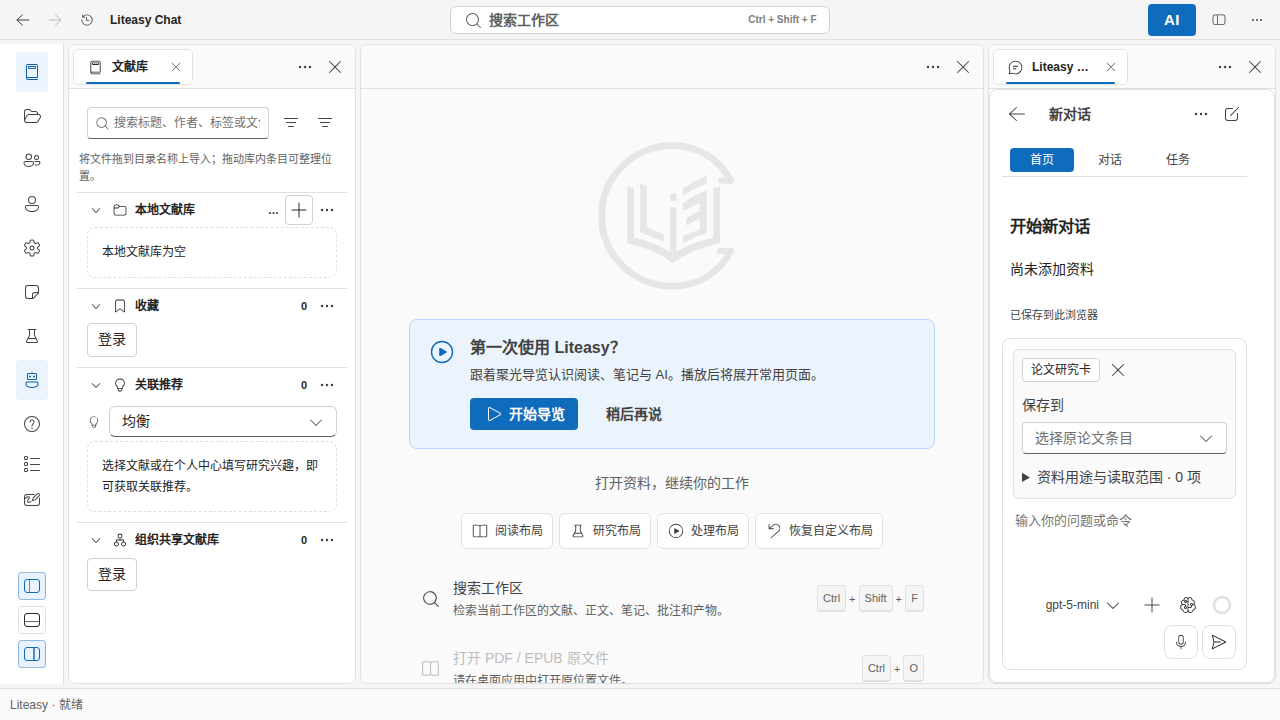
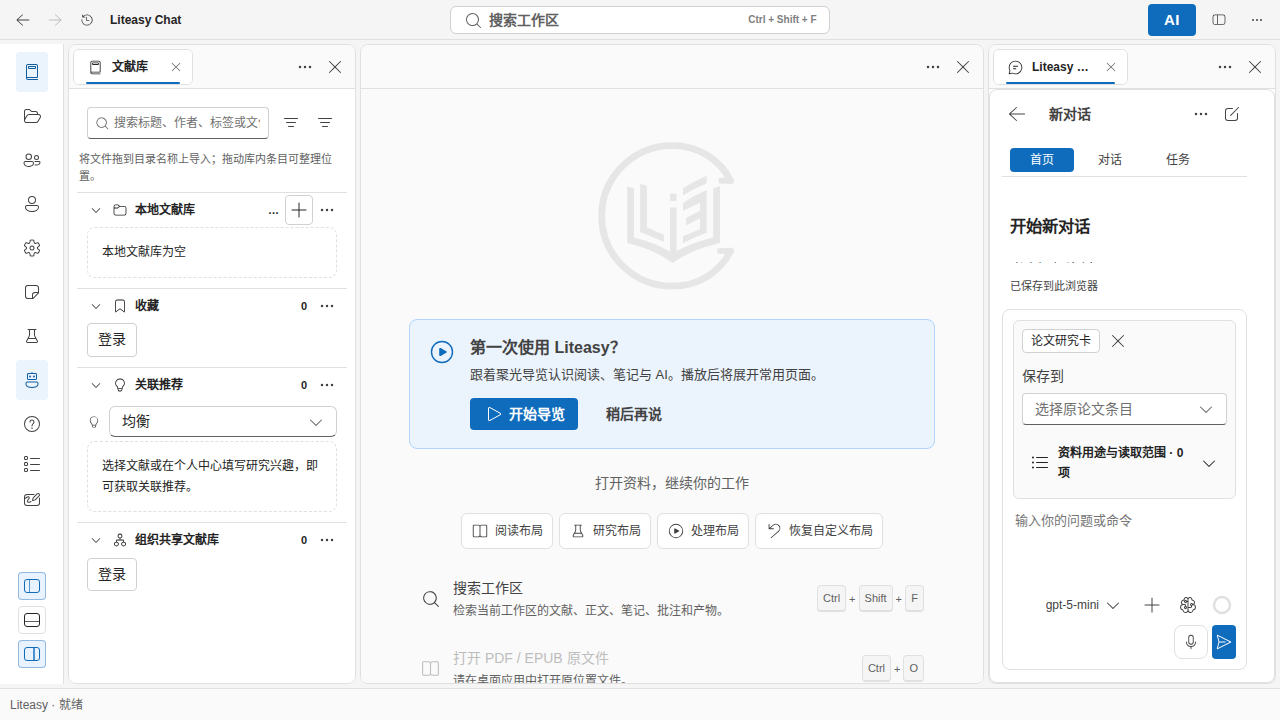
fix: align research skill controls with shared UI contracts

diff --git a/products/liteasy/apps/desktop/src/app/features/research-skills/ResearchDocumentDetails.tsx b/products/liteasy/apps/desktop/src/app/features/research-skills/ResearchDocumentDetails.tsx
@@ -1,3 +1,4 @@
+import { DisclosureSection } from "../../shared/ui/productPrimitives";
 import { useContext, useState } from "react";
 import { Button } from "@fluentui/react-components";
 import { ResearchSkillsContext } from "./researchSkillsPort";
@@ -13,11 +14,11 @@ export function ResearchDocumentDetails({ document }: { document: ResearchDocume
   return <div aria-label="科研文档来源与版本">
     <p>保存到：{document.invocation.destination.title} · {document.invocation.skill.id} {document.invocation.skill.version}</p>
     <p>结构与引用定位已检查，科研结论仍需核对。</p>
-    <details><summary>本次实际读取的来源</summary><ul>{document.sources.map(source => <li key={source.id}>
+    <DisclosureSection title="本次实际读取的来源"><ul>{document.sources.map(source => <li key={source.id}>
       {resources && "objectId" in source.ref ? <ResourceLink locator={liteasyPath(resources.service.scope, { kind: "object", ref: source.ref })}>{source.id} · {source.title}</ResourceLink> : `${source.id} · ${source.title}`}
       <span> · {source.trustLabel === "source" ? "来源材料" : source.trustLabel === "derived" ? "派生资料" : "说明信息"}</span>
-      <details><summary>查看本次读取文本</summary><pre className="research-source-text">{source.text}</pre></details>
-    </li>)}</ul></details>
+      <DisclosureSection title="查看本次读取文本"><pre className="research-source-text">{source.text}</pre></DisclosureSection>
+    </li>)}</ul></DisclosureSection>
     {skills ? <Button disabled={busy} onClick={() => { setBusy(true); void skills.createEditableCopy(document).then(() => setMessage("已创建独立笔记，原科研文档版本保留")).catch(error => setMessage(String(error))).finally(() => setBusy(false)); }}>创建可编辑副本</Button> : null}
     {message ? <p role="status">{message}</p> : null}
   </div>;

diff --git a/products/liteasy/apps/desktop/src/app/features/research-skills/ResearchSkillSelection.tsx b/products/liteasy/apps/desktop/src/app/features/research-skills/ResearchSkillSelection.tsx
@@ -1,3 +1,4 @@
+import { DisclosureSection } from "../../shared/ui/productPrimitives";
 import "./researchSkills.css";
 import { Button, Dropdown, Option, Popover, PopoverTrigger, PopoverSurface, Tooltip } from "@fluentui/react-components";
 import { DismissRegular } from "@fluentui/react-icons";
@@ -19,12 +20,12 @@ export function ResearchSkillSelectionView({ selection, destinations, sources, o
       onOptionSelect={(_, data) => onChange({ ...selection, destination: destinations.find(destination => destination.canonicalEntryId === data.optionValue) })}>
       {destinations.map(destination => <Option key={destination.canonicalEntryId} value={destination.canonicalEntryId}>{destination.title}</Option>)}
     </Dropdown></label>
-    <details><summary>资料用途与读取范围 · {sources.length} 项</summary>
+    <DisclosureSection title={`资料用途与读取范围 · ${sources.length} 项`}>
       {!sources.length ? <p>请通过 @ 选择需要读取的原文、摘录或笔记。仅选择论文条目时会读取元数据。</p> : null}
       {sources.map((source, index) => <label key={index}>{source.label}<Dropdown aria-label={`资料用途：${source.label}`} value={skill?.adapter?.inputs.roles.find(role => role.id === selection.roles[JSON.stringify(source.refs[0])])?.label ?? skill?.adapter?.inputs.roles[0].label}
         onOptionSelect={(_, data) => onChange({ ...selection, roles: { ...selection.roles, ...Object.fromEntries(source.refs.map(ref => [JSON.stringify(ref), data.optionValue!])) } })}>
         {skill?.adapter?.inputs.roles.map(role => <Option key={role.id} value={role.id}>{role.label}</Option>)}
       </Dropdown><small>{source.detail || "读取所选对象的完整文本；没有自动读取整篇论文。"}</small></label>)}
-    </details>
+    </DisclosureSection>
   </section>;
 }

diff --git a/products/liteasy/apps/desktop/src/app/features/assistant/AssistantComposer.tsx b/products/liteasy/apps/desktop/src/app/features/assistant/AssistantComposer.tsx
@@ -415,16 +415,14 @@ export function AssistantComposer({
           </button>
         </Tooltip>
         <Tooltip content={researchSelected ? "生成并保存" : editing ? "更新并发送" : "发送消息"} positioning="above" relationship="description">
-          <button
+          <Button appearance="primary" size="small" icon={<SendRegular />}
             aria-label={researchSelected ? "生成并保存" : editing ? "更新并发送" : "发送"}
             className="assistant-send assistant-icon-button"
             disabled={contextLoading}
             onClick={onSend}
             title={researchSelected ? "生成并保存" : editing ? "更新并发送" : "发送"}
             type="button"
-          >
-            <SendRegular />
-          </button>
+          />
         </Tooltip>
       </div>
       {browserQuery !== null ? <ContextAssetBrowser key={contextScopeId} suggestions={suggestions} contextTokens={contextTokens} initialPreviewId={browserPreviewId}

diff --git a/docs/qa/research-skills/2026-10-14/README.md b/docs/qa/research-skills/2026-10-14/README.md
@@ -27,3 +27,5 @@
 `research-skill-selection.png` 为实际桌面浏览器截图。浏览器用例验证选择方法、清除输入中的命令、明确生成动作、持久保存、刷新恢复和移除。
 
 最终验证明细见 `validation.json`。全量回归的唯一失败发现了方法选择被输入更新清空的问题；修复后相关 78 项回归、75 项最终受影响测试以及实际浏览器恢复测试通过。原全量运行仍如实记录为 1 项失败，不将其重标为全量通过。
+
+首次推送的 UI CI 指出了原生折叠控件、界面清单和发送按钮旧例外的问题。后续修正统一使用既有 Fluent 控件，删除失效例外，按科研界面归属重新生成清单；本地 `ci:ui` 的 207 项 UI 测试与 148 项上下文测试通过。科研技能的单元和浏览器用例已加入日常 CI。
